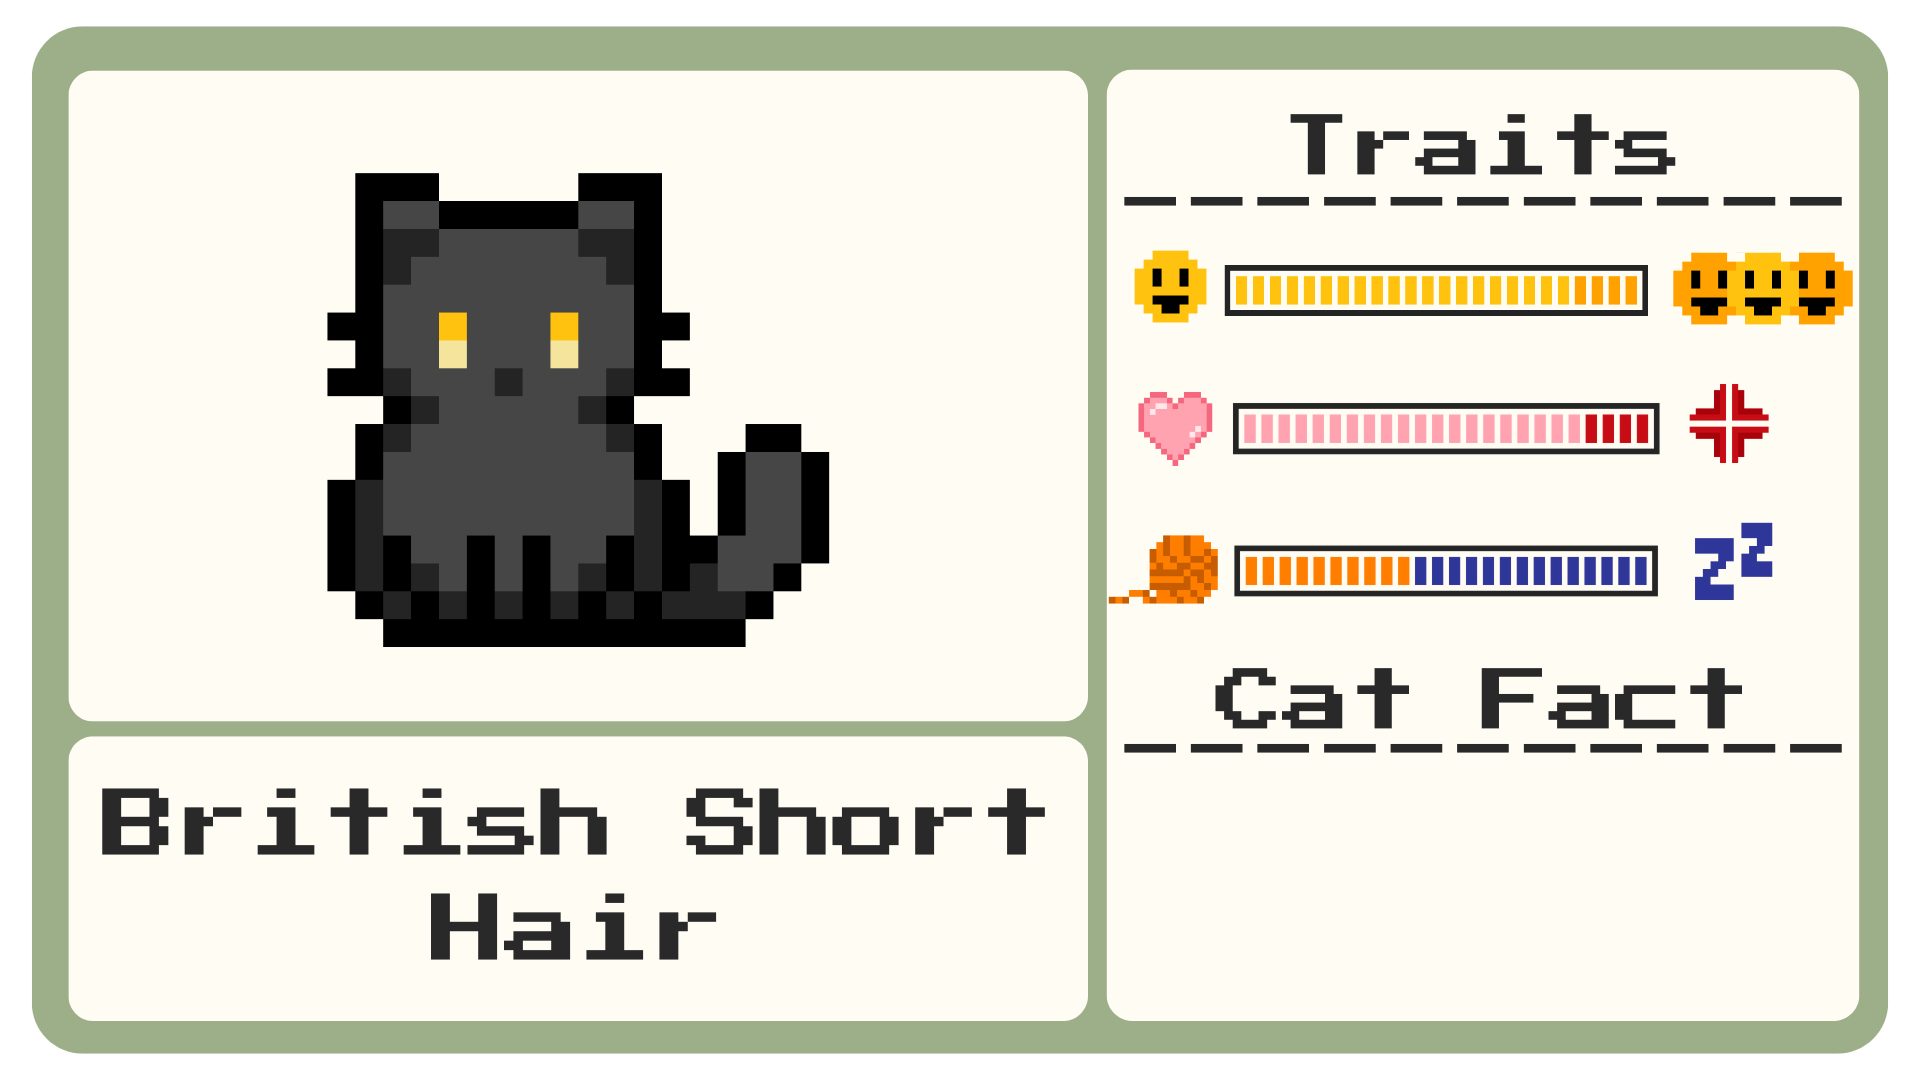
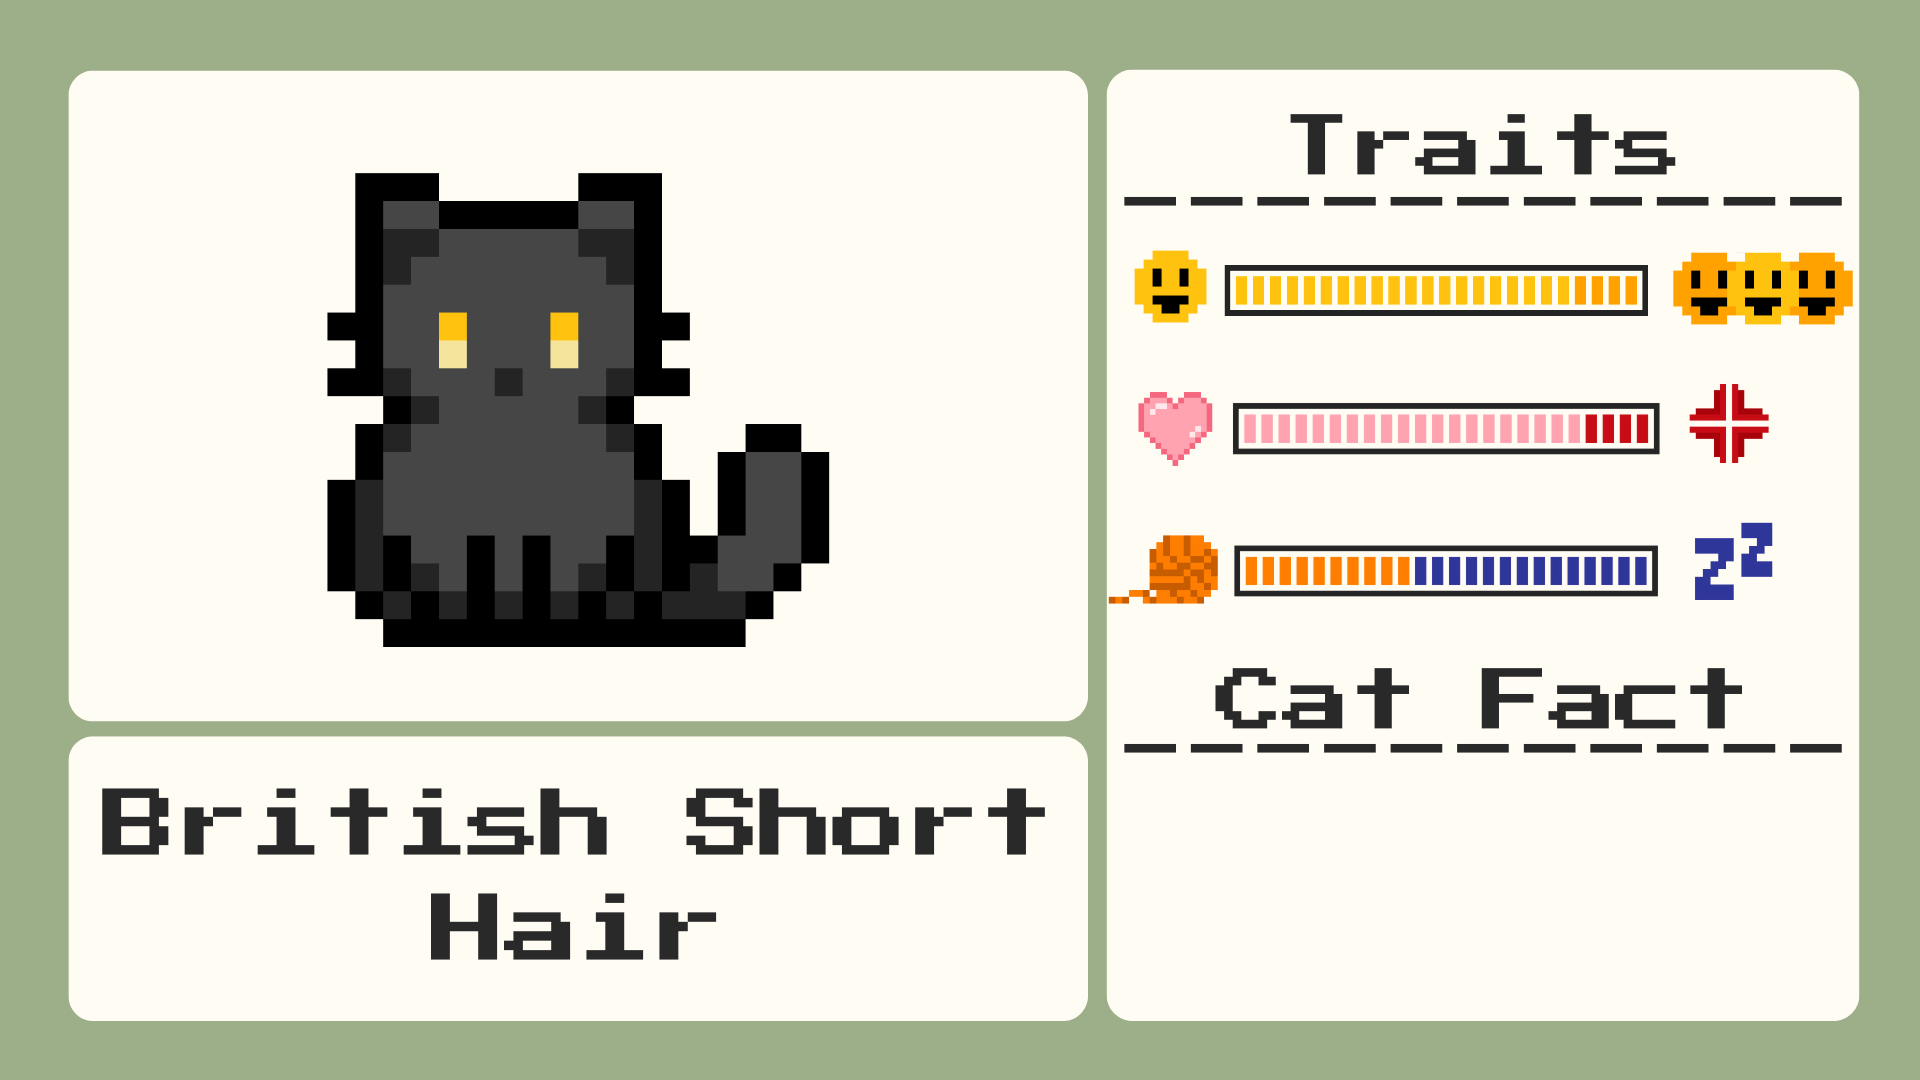
fixing style on img results display

Changed region(s): [[0.0, 0.0, 1.0, 1.0]]

diff --git a/src/components/Result.tsx b/src/components/Result.tsx
@@ -23,6 +23,7 @@ const Result: React.FC<ResultProps> = ({ answers }) => {
 
   const result = getResult();
 
+
   const images: { [key: string]: string } = {
     bombay: bombay,
     calico: calico,
@@ -33,7 +34,7 @@ const Result: React.FC<ResultProps> = ({ answers }) => {
   const imageSrc = images[result];
 
   return (
-    <img src={imageSrc} alt={result} style={{ maxWidth: "100%", height: "auto" }} />
+    <img src={imageSrc} alt={result} style={{ maxWidth: "90%", height: "90%" }} />
   );
 };
 

diff --git a/src/page.tsx b/src/page.tsx
@@ -5,7 +5,6 @@ import "./page.css";
 const Page: React.FC = () => {
   return (
     <div className="Meow">
-      <h1>Purrrsonality Quiz</h1>
       <Quiz />
     </div>
   );

diff --git a/src/page.css b/src/page.css
@@ -9,7 +9,6 @@ body {
 
 .Meow {
    text-align: center;
-   padding: 20px;
    font-family: Verdana, sans-serif;
  }
 
